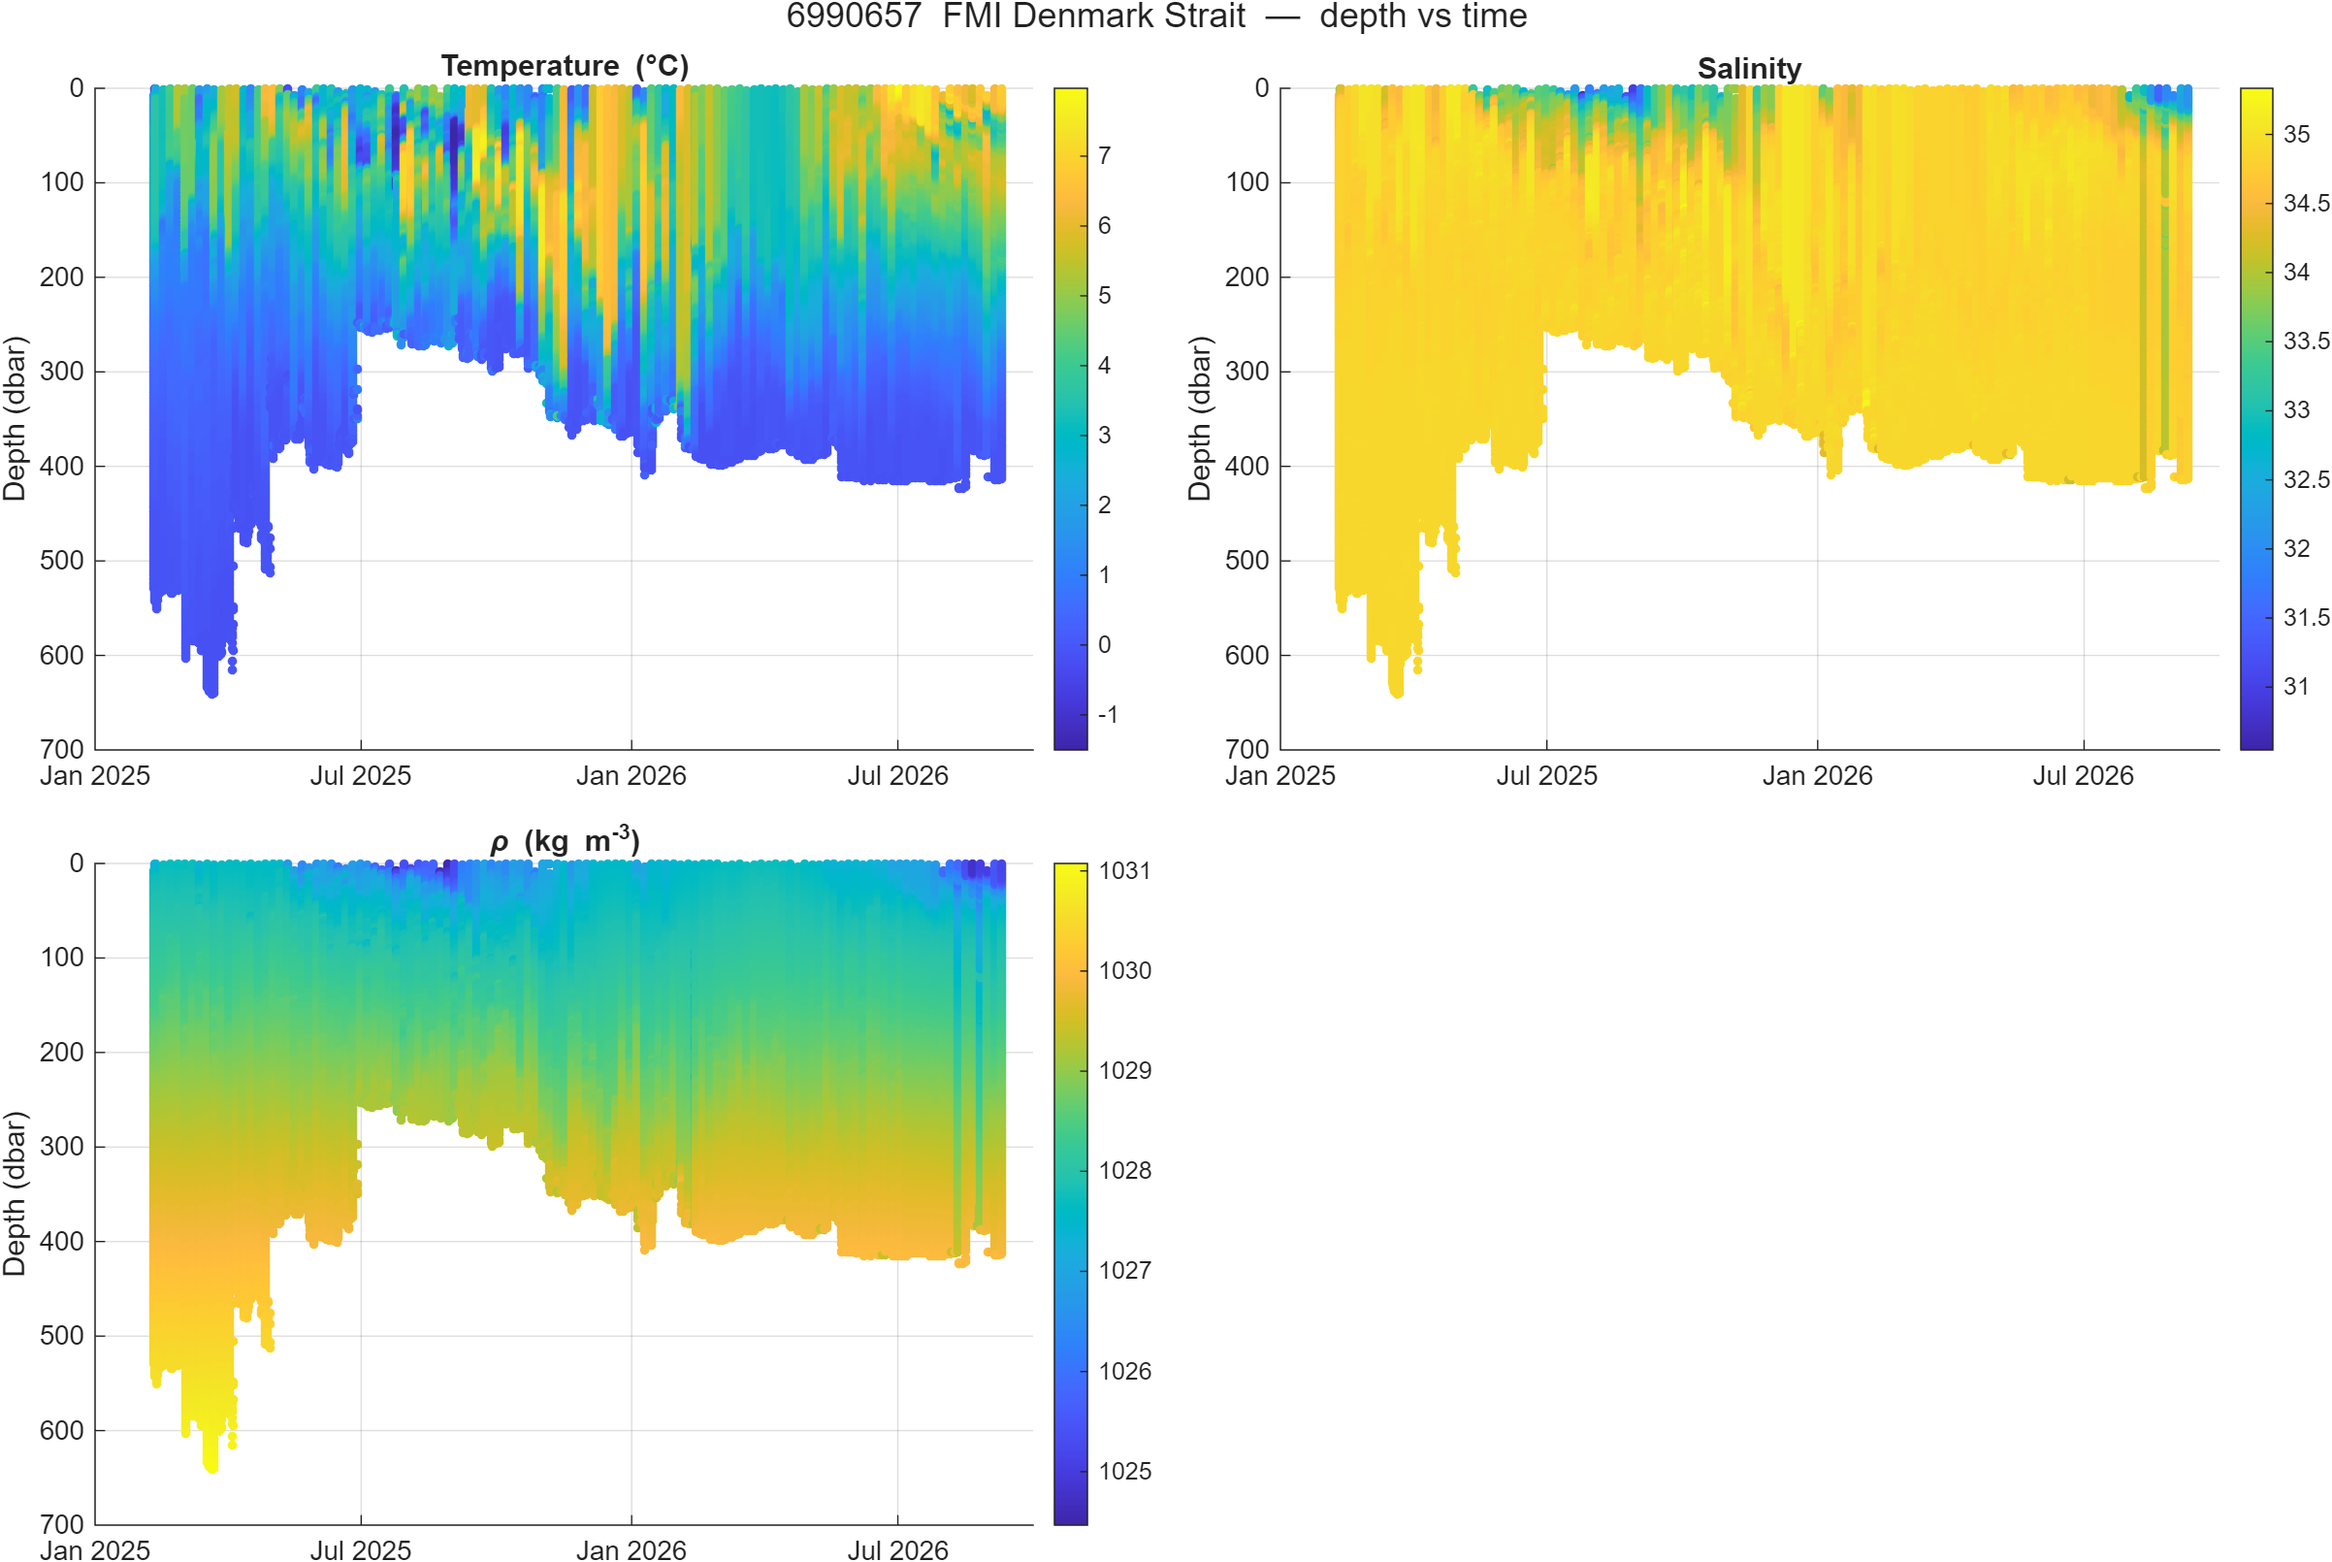
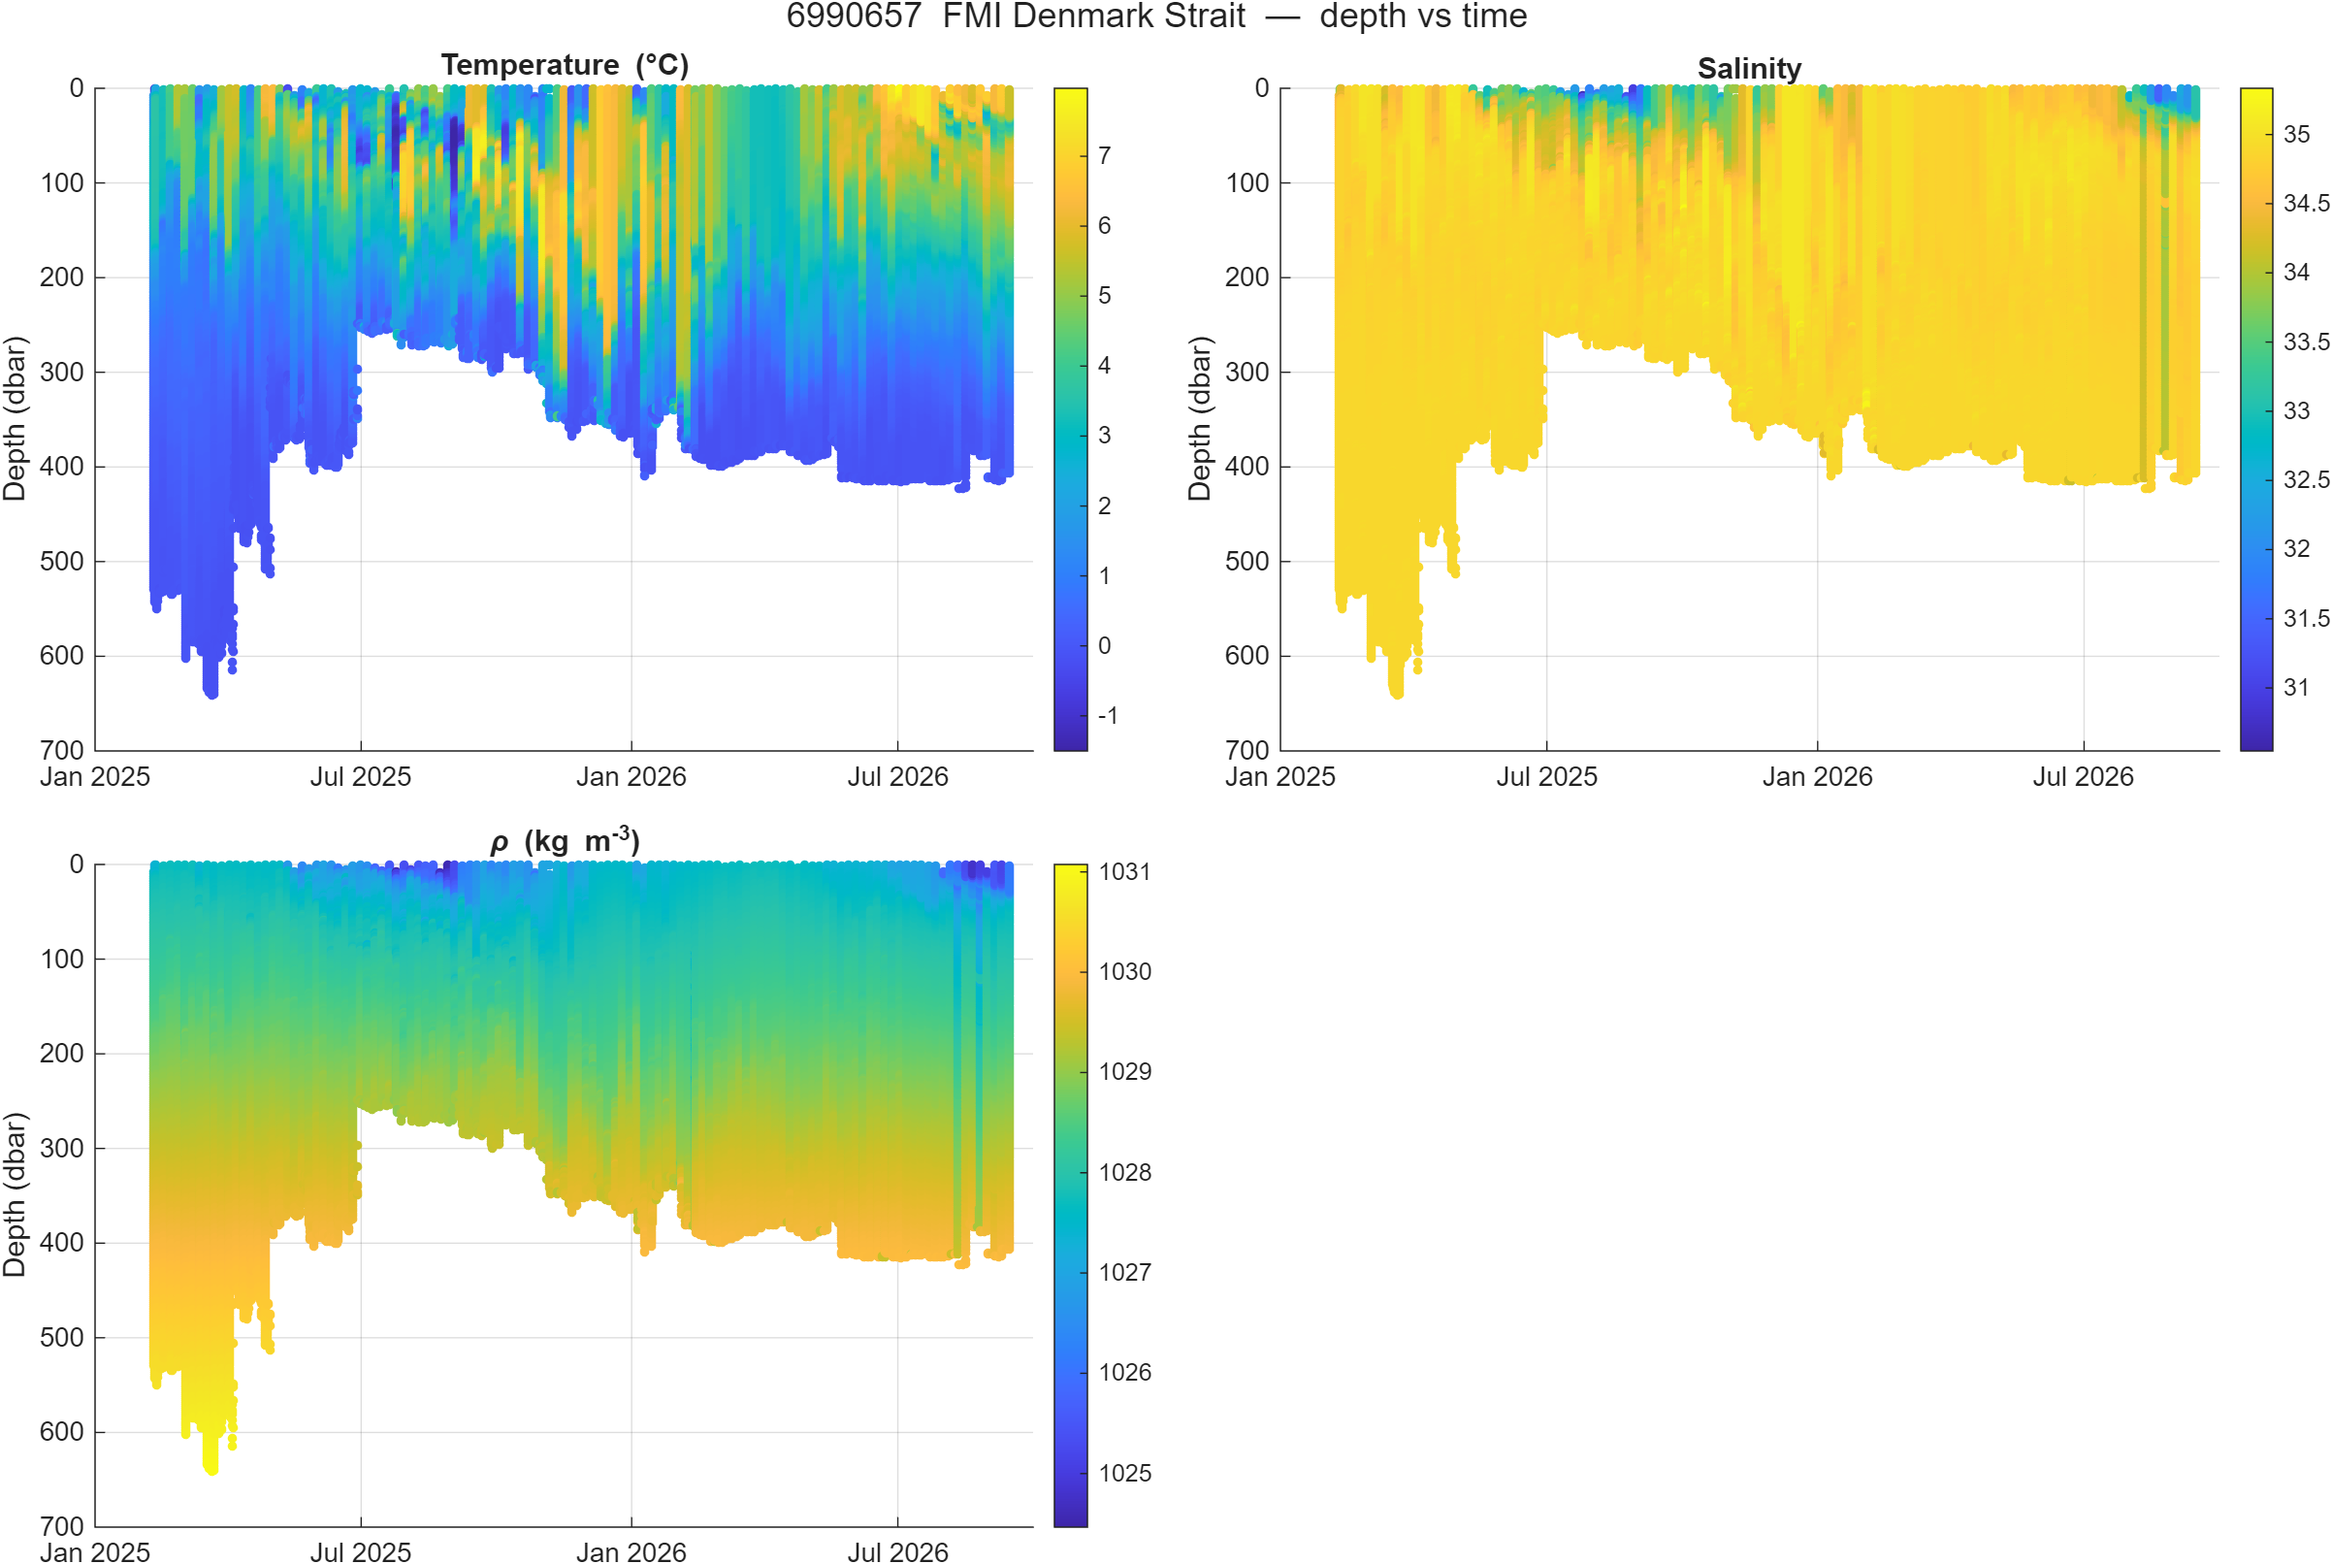
data update

diff --git a/data.js b/data.js
@@ -15,7 +15,7 @@
 //   graphs        [{label, src}, ...] figures for the fold-out
 //   notes         free text from floats_config.csv
 
-const floatUpdated = "2026-09-14 13:03";
+const floatUpdated = "2026-09-16 08:13";
 
 const floatData = [
   {
@@ -32,7 +32,7 @@ const floatData = [
     "location": "70.066° N, 18.392° W",
     "deployment_date": "2025-05-27",
     "last_surface": "2026-09-12 17:09",
-    "days_since": 1.8,
+    "days_since": 3.6,
     "next_surface": "2026-09-17 16:09",
     "next_surface_source": "nke cycle period",
     "n_profiles": 98,
@@ -460,15 +460,15 @@ const floatData = [
     "region": "greenland",
     "status": "active",
     "status_note": "",
-    "latitude": 67.5049,
-    "longitude": -19.8663,
-    "location": "67.505° N, 19.866° W",
+    "latitude": 67.5256,
+    "longitude": -19.8581,
+    "location": "67.526° N, 19.858° W",
     "deployment_date": "2025-02-10",
-    "last_surface": "2026-09-09 15:27",
-    "days_since": 4.9,
-    "next_surface": "2026-09-14 14:27",
+    "last_surface": "2026-09-14 14:14",
+    "days_since": 1.7,
+    "next_surface": "2026-09-19 13:14",
     "next_surface_source": "nke cycle period",
-    "n_profiles": 118,
+    "n_profiles": 119,
     "track": [
       [
         67.3361,
@@ -949,6 +949,10 @@ const floatData = [
       [
         67.5049,
         -19.8663
+      ],
+      [
+        67.5256,
+        -19.8581
       ]
     ],
     "trajectory": "assets/plots/6990657/6990657_map.png",
@@ -958,8 +962,8 @@ const floatData = [
         "src": "assets/plots/6990657/6990657_sections.png"
       },
       {
-        "label": "Profile 118  (2026-09-09)",
-        "src": "assets/plots/6990657/6990657_profile_118_2026-09-09.png"
+        "label": "Profile 119  (2026-09-14)",
+        "src": "assets/plots/6990657/6990657_profile_119_2026-09-14.png"
       }
     ],
     "notes": "RBR CTD"
@@ -978,7 +982,7 @@ const floatData = [
     "location": "78.691° N, 11.255° W",
     "deployment_date": "2025-08-04",
     "last_surface": "2026-09-01 04:35",
-    "days_since": 13.4,
+    "days_since": 15.2,
     "next_surface": "2026-09-06 03:35",
     "next_surface_source": "nke cycle period",
     "n_profiles": 81,
@@ -1347,7 +1351,7 @@ const floatData = [
     "location": "74.039° N, 13.369° W",
     "deployment_date": "2025-10-30",
     "last_surface": "2026-09-13 11:05",
-    "days_since": 1.1,
+    "days_since": 2.9,
     "next_surface": "2026-09-18 10:05",
     "next_surface_source": "nke cycle period",
     "n_profiles": 64,
@@ -1648,7 +1652,7 @@ const floatData = [
     "location": "77.348° N, 70.480° W",
     "deployment_date": "2025-08-13",
     "last_surface": "2026-09-14 04:28",
-    "days_since": 0.4,
+    "days_since": 2.2,
     "next_surface": "2026-09-19 03:28",
     "next_surface_source": "nke cycle period",
     "n_profiles": 60,
@@ -1933,7 +1937,7 @@ const floatData = [
     "location": "74.352° N, 20.328° W",
     "deployment_date": "2025-08-17",
     "last_surface": "2026-09-12 22:29",
-    "days_since": 1.6,
+    "days_since": 3.4,
     "next_surface": "2026-09-22 17:29",
     "next_surface_source": "nke cycle period",
     "n_profiles": 40,
@@ -2133,15 +2137,15 @@ const floatData = [
     "region": "denmark",
     "status": "active",
     "status_note": "",
-    "latitude": 56.3225,
-    "longitude": 19.3587,
-    "location": "56.322° N, 19.359° E",
+    "latitude": 56.3271,
+    "longitude": 19.3691,
+    "location": "56.327° N, 19.369° E",
     "deployment_date": "2024-11-25",
-    "last_surface": "2026-09-11 03:42",
-    "days_since": 3.4,
-    "next_surface": "2026-09-15 22:42",
+    "last_surface": "2026-09-15 22:43",
+    "days_since": 0.4,
+    "next_surface": "2026-09-20 17:43",
     "next_surface_source": "nke cycle period",
-    "n_profiles": 141,
+    "n_profiles": 142,
     "track": [
       [
         55.4992,
@@ -2710,6 +2714,10 @@ const floatData = [
       [
         56.3225,
         19.3587
+      ],
+      [
+        56.3271,
+        19.3691
       ]
     ],
     "trajectory": "assets/plots/3902607/3902607_map.png",
@@ -2719,8 +2727,8 @@ const floatData = [
         "src": "assets/plots/3902607/3902607_sections.png"
       },
       {
-        "label": "Profile 141  (2026-09-11)",
-        "src": "assets/plots/3902607/3902607_profile_141_2026-09-11.png"
+        "label": "Profile 142  (2026-09-15)",
+        "src": "assets/plots/3902607/3902607_profile_142_2026-09-15.png"
       }
     ],
     "notes": "RBR CTD; pre-deployment July-2024 fix dropped via deploy_date"
@@ -2739,7 +2747,7 @@ const floatData = [
     "location": "55.201° N, 9.753° E",
     "deployment_date": "2026-06-23",
     "last_surface": "2026-09-10 21:39",
-    "days_since": 3.6,
+    "days_since": 5.4,
     "next_surface": "2026-09-15 20:31",
     "next_surface_source": "median cycle interval",
     "n_profiles": 17,
@@ -2840,7 +2848,7 @@ const floatData = [
     "location": "54.986° N, 10.229° E",
     "deployment_date": "2026-06-24",
     "last_surface": "2026-09-13 01:48",
-    "days_since": 1.5,
+    "days_since": 3.3,
     "next_surface": "2026-09-18 01:37",
     "next_surface_source": "median cycle interval",
     "n_profiles": 17,
@@ -2921,8 +2929,8 @@ const floatData = [
         "src": "assets/plots/Sgav_provor/Sgav_provor_sections.png"
       },
       {
-        "label": "Profile 016  (2026-09-08)",
-        "src": "assets/plots/Sgav_provor/Sgav_provor_profile_016_2026-09-08.png"
+        "label": "Profile 017  (2026-09-13)",
+        "src": "assets/plots/Sgav_provor/Sgav_provor_profile_017_2026-09-13.png"
       }
     ],
     "notes": "BGC+RAMSES+SUNA; needs external SGAV_provor tree beside pipeline (FTP+APMTDecoder); set active=true to re-run"
@@ -2935,13 +2943,13 @@ const floatData = [
     "sensors": "bgc",
     "region": "denmark",
     "status": "inactive",
-    "status_note": "no transmission for 435 days — no next surfacing predicted",
+    "status_note": "no transmission for 437 days — no next surfacing predicted",
     "latitude": 55.1358,
     "longitude": 14.5121,
     "location": "55.136° N, 14.512° E",
     "deployment_date": "2023-11-07",
     "last_surface": "2025-07-06 10:58",
-    "days_since": 435.1,
+    "days_since": 436.9,
     "next_surface": "",
     "next_surface_source": "",
     "n_profiles": 190,
